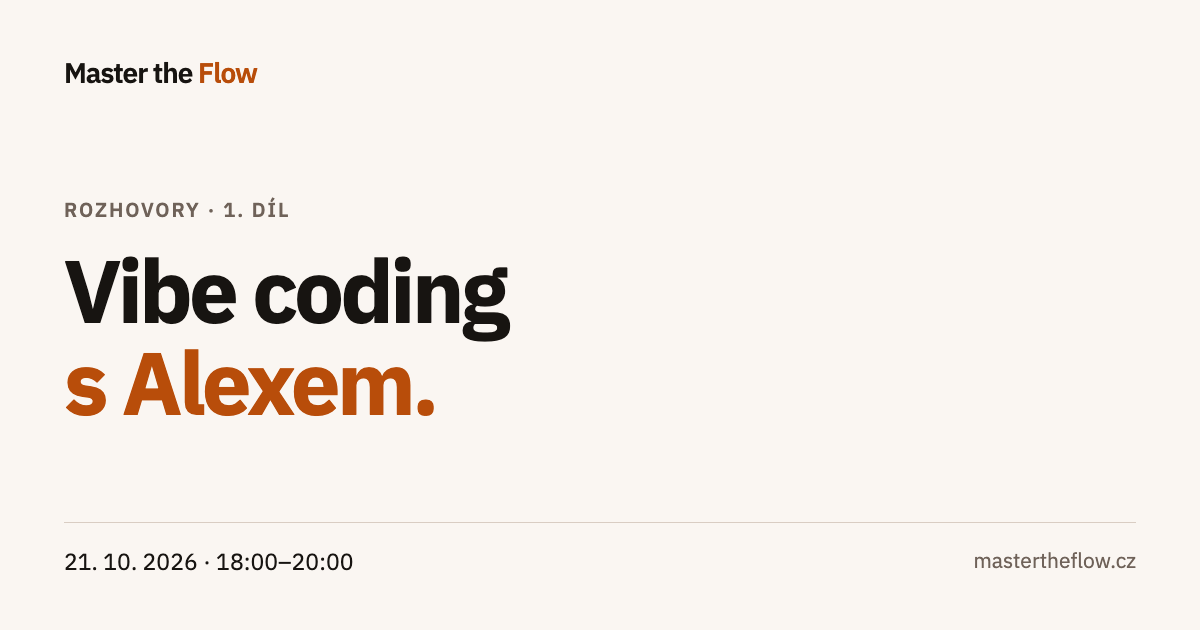
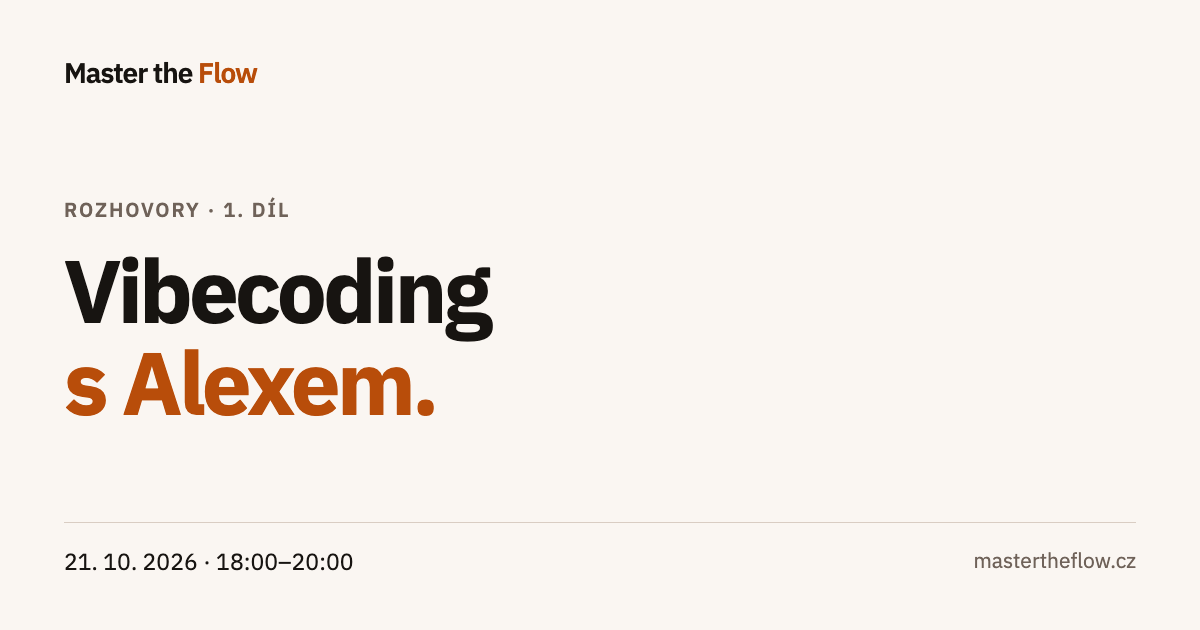
Update Alex interview copy from guest materials

Changed region(s): [[0.185, 0.3921, 0.4317, 0.5429]]

diff --git a/tests/e2e-vibe-coding-live.js b/tests/e2e-vibe-coding-live.js
@@ -29,7 +29,7 @@ function check(name, condition, detail = '') {
   const response = await page.goto(`${BASE}${episodePath}`, { waitUntil: 'networkidle' });
   check('Stránka vrací úspěšnou odpověď', response && response.ok(), String(response && response.status()));
   check('Stránka je veřejná bez přístupové brány', await page.locator('#gate').count() === 0);
-  check('Titulek pojmenovává díl s Alexem', (await page.locator('h1').innerText()).replace(/\s+/g, ' ') === 'Vibe coding s Alexem.');
+  check('Titulek pojmenovává díl s Alexem', (await page.locator('h1').innerText()).replace(/\s+/g, ' ') === 'Vibecoding s Alexem.');
   check('Sdílení používá kanonickou adresu nového dílu', await page.locator('link[rel="canonical"]').getAttribute('href') === `https://mastertheflow.cz${episodePath}`
     && await page.locator('meta[property="og:url"]').getAttribute('content') === `https://mastertheflow.cz${episodePath}`);
 
@@ -49,7 +49,7 @@ function check(name, condition, detail = '') {
   const publicCopy = `${pageMarkup} ${JSON.stringify(portalEvent)}`;
   const naming = {
     type: portalEvent?.type === 'ROZHOVOR',
-    title: portalEvent?.title === 'Vibe coding s Alexem | Rozhovory Master the Flow #1',
+    title: portalEvent?.title === 'Vibecoding s Alexem | Rozhovory Master the Flow #1',
     pageTitle: await page.title() === portalEvent?.title,
     eyebrow: await page.locator('.eyebrow').textContent() === 'Rozhovory Master the Flow · 1. díl',
     guest: await page.locator('#guest-title').textContent() === 'Alex Trejtnar',
@@ -70,7 +70,7 @@ function check(name, condition, detail = '') {
   check('Závazné údaje jsou konzistentní', Object.values(facts).every(Boolean), JSON.stringify(facts));
   check('Živá účast nabízí vlastní otázky bez povinné přípravy', /Přijďte s vlastní otázkou/.test(mainText)
     && /Na otázky bude prostor i během vysílání/.test(mainText)
-    && /Nemusíte nic instalovat ani mít připravený projekt/.test(mainText));
+    && /Bez instalace a připraveného projektu/.test(mainText));
   const recordingPlacement = await page.locator('.registration-actions').evaluate(element => {
     const button = element.querySelector('[data-registration-link]');
     const note = element.querySelector('.registration-note');
@@ -80,18 +80,18 @@ function check(name, condition, detail = '') {
   check('Záznam je zachovaný jako doplňková informace pod registračním tlačítkem', recordingPlacement);
   const startingPoint = {
     lovable: /Lovable/.test(mainText),
-    codingAgent: /coding agentem/i.test(mainText),
-    desiredOutput: /výsledek pořád není ono/i.test(mainText),
+    codingAgent: /coding agenta/i.test(mainText),
+    desiredOutput: /výsledek není ono/i.test(mainText),
   };
   check('Stránka vychází ze zkušenosti s coding nástroji', Object.values(startingPoint).every(Boolean), JSON.stringify(startingPoint));
-  check('Nosná otázka není redukovaná na lepší prompt', /co si připravit, než začnete zadávat/i.test(mainText)
-    && /Jak si ujasnit, co vlastně stavět/i.test(mainText));
-  check('Alexův setup není vydáván za povinnost', /co z Alexova systému převzít a co zatím vynechat/i.test(mainText));
-  check('Alexova odbornost není postavená na shazování Daniela', /jeho systém práce/i.test(mainText)
-    && /digitálu přes dvacet let/i.test(mainText)
-    && /ARIBENA/i.test(mainText)
+  check('Nosná otázka odpovídá Alexovu tématu přemýšlení', /Vibecoding vás učí každý\. Přemýšlet málokdo\./.test(mainText)
+    && /Jak uvidět problém dřív, než začnete zadávat/.test(mainText)
+    && /Jak výsledek ověřit a používat v praxi/.test(mainText));
+  check('Alexův setup není vydáván za povinnost', /Co si vzít z Alexova systému práce s agentem/.test(mainText));
+  check('Alexova odbornost není postavená na shazování Daniela', /20 let digitalizuje firmy/i.test(mainText)
+    && /Učí jejich týmy, jak o AI přemýšlet/i.test(mainText)
     && !/Mám to stejně|Nejsem vývojář|dál než (?:já|ten můj)|Co dělá jinak než já|co mi při stavění aplikací nefunguje|méně pokročil|o (?:několik|pár) úrovní přede mnou|teprve začínám|Daniel[^.]{0,80}(?:bastlí|nezvládá|trvá déle)/i.test(publicCopy));
-  check('Ukázky jsou podmíněné užitečností pro odpověď', /Kde to pomůže, Alex ukáže svůj postup na obrazovce/i.test(mainText));
+  check('Ukázky jsou podmíněné užitečností pro odpověď', /Alex podle potřeby nasdílí obrazovku/i.test(mainText));
   check('Stránka neslibuje pevný program ani polovinu vysílání', /O čem se budeme bavit/i.test(mainText)
     && !/polovinu vysílání|připravené checkpointy|šest okruhů/i.test(mainText));
   check('Stránka neslibuje konkrétní aplikaci dema', !/postavíme (?:aplikaci|appku)|vyrobíme (?:aplikaci|appku)/i.test(mainText));
@@ -134,17 +134,20 @@ function check(name, condition, detail = '') {
     && portraitBox
     && Math.abs(portraitBox.width - portraitBox.height) < 1,
   JSON.stringify(portraitBox));
-  check('Alexův profil stojí na ověřitelných zdrojích', /Alex Trejtnar/.test(mainText)
-    && /digitálu přes dvacet let/i.test(mainText)
-    && /ARIBENA/.test(mainText)
+  // Trvalý obsahový kontrakt: medailonek dodaný Alexem ve WhatsAppu 12. 10. 2026.
+  const guestBio = '20 let digitalizuje firmy: vývoj, marketing, procesy, obchod, automatizace. Dnes hlavně s AI. S klienty spolupracuje dlouhodobě. Vytváří s nimi nástroje, systémy a aplikace, které šetří čas, náklady a pomáhají pracovat s AI bezpečně. Učí jejich týmy, jak o AI přemýšlet a jak s ní pracovat.';
+  check('Alexův medailonek odpovídá jeho dodanému textu', await page.locator('.guest-copy > p').innerText() === guestBio
     && await page.locator('.guest-links a').count() === 3);
 
   const questionsText = await page.locator('.question-list').innerText();
-  check('Stránka uvádí témata místo harmonogramu', /co vlastně stavět/i.test(questionsText)
-    && /Co nastavit v projektu/i.test(questionsText)
-    && /Alexova systému.*vynechat/i.test(questionsText)
+  check('Stránka uvádí témata místo harmonogramu', /uvidět problém/i.test(questionsText)
+    && /Alexova systému práce s agentem/i.test(questionsText)
+    && /ověřit a používat/i.test(questionsText)
     && !/18:\d{2}/.test(questionsText));
   check('Stránka neopakuje samostatnou sekci o formátu', await page.locator('.format').count() === 0);
+  check('Minimalistický rozsah nepřidává propagaci kurzu', await page.locator('main > section').count() === 4
+    && await page.locator('.question-list li').count() === 3
+    && !/leden 2027|do 15 lidí|Novum Organon/.test(mainText));
 
   const themeBefore = await page.locator('html').getAttribute('data-theme');
   await page.locator('#theme-toggle').click();

diff --git a/rozhovory/1-vibe-coding-s-alexem/index.html b/rozhovory/1-vibe-coding-s-alexem/index.html
@@ -4,8 +4,8 @@
   <meta charset="UTF-8">
   <meta name="viewport" content="width=device-width, initial-scale=1.0, viewport-fit=cover">
   <meta name="theme-color" content="#faf6f2">
-  <meta name="description" content="Co si připravit, než začnete stavět s AI? Živý rozhovor Daniela Gamrota s Alexem Trejtnarem. 21. října 2026 od 18:00, online a zdarma.">
-  <title>Vibe coding s Alexem | Rozhovory Master the Flow #1</title>
+  <meta name="description" content="Vibecoding vás učí každý. Přemýšlet málokdo. Živý rozhovor Daniela Gamrota s Alexem Trejtnarem. 21. října 2026 od 18:00, online a zdarma.">
+  <title>Vibecoding s Alexem | Rozhovory Master the Flow #1</title>
   <link rel="icon" type="image/svg+xml" href="/favicon.svg">
   <link rel="apple-touch-icon" href="/apple-touch-icon.png">
   <link rel="preload" href="/fonts/IBMPlexSans-Regular.woff2" as="font" type="font/woff2" crossorigin>
@@ -16,19 +16,19 @@
   <meta property="og:type" content="website">
   <meta property="og:site_name" content="Master the Flow">
   <meta property="og:locale" content="cs_CZ">
-  <meta property="og:title" content="Vibe coding s Alexem | Rozhovory Master the Flow #1">
+  <meta property="og:title" content="Vibecoding s Alexem | Rozhovory Master the Flow #1">
   <meta property="og:description" content="ROZHOVORY · 1. DÍL · 21. 10. 2026 · 18:00–20:00 · Master the Flow">
   <meta property="og:url" content="https://mastertheflow.cz/rozhovory/1-vibe-coding-s-alexem/">
-  <meta property="og:image" content="https://mastertheflow.cz/event-cards/evt-2026-10-21-vibe-coding-nezacina-promptem.png?v=14d22010222e">
+  <meta property="og:image" content="https://mastertheflow.cz/event-cards/evt-2026-10-21-vibe-coding-nezacina-promptem.png?v=4ec5b4eae546">
   <meta property="og:image:type" content="image/png">
   <meta property="og:image:width" content="1200">
   <meta property="og:image:height" content="630">
-  <meta property="og:image:alt" content="Vibe coding s Alexem | Rozhovory Master the Flow #1 · 21. 10. 2026">
+  <meta property="og:image:alt" content="Vibecoding s Alexem | Rozhovory Master the Flow #1 · 21. 10. 2026">
   <meta name="twitter:card" content="summary_large_image">
-  <meta name="twitter:title" content="Vibe coding s Alexem | Rozhovory Master the Flow #1">
+  <meta name="twitter:title" content="Vibecoding s Alexem | Rozhovory Master the Flow #1">
   <meta name="twitter:description" content="ROZHOVORY · 1. DÍL · 21. 10. 2026 · 18:00–20:00 · Master the Flow">
-  <meta name="twitter:image" content="https://mastertheflow.cz/event-cards/evt-2026-10-21-vibe-coding-nezacina-promptem.png?v=14d22010222e">
-  <meta name="twitter:image:alt" content="Vibe coding s Alexem | Rozhovory Master the Flow #1 · 21. 10. 2026">
+  <meta name="twitter:image" content="https://mastertheflow.cz/event-cards/evt-2026-10-21-vibe-coding-nezacina-promptem.png?v=4ec5b4eae546">
+  <meta name="twitter:image:alt" content="Vibecoding s Alexem | Rozhovory Master the Flow #1 · 21. 10. 2026">
   <link rel="canonical" href="https://mastertheflow.cz/rozhovory/1-vibe-coding-s-alexem/">
   <!-- event-preview:end -->
 </head>
@@ -49,9 +49,9 @@
       <div class="hero-grid">
         <div class="hero-copy">
           <p class="eyebrow">Rozhovory Master the Flow · 1. díl</p>
-          <h1 id="event-title">Vibe coding <span>s Alexem.</span></h1>
+          <h1 id="event-title">Vibecoding <span>s Alexem.</span></h1>
           <p class="hero-host">Živý rozhovor s Alexem Trejtnarem. Moderuje Daniel Gamrot.</p>
-          <p class="hero-lede">Stavíte v Lovable, Codexu nebo s jiným coding agentem, ale výsledek pořád není ono? Podíváme se, co si připravit, než začnete zadávat. Přijďte s vlastní otázkou.</p>
+          <p class="hero-lede">Vibecoding vás učí každý. Přemýšlet málokdo. Zkoušíte Lovable nebo coding agenta, ale výsledek není ono? Přijďte s vlastní otázkou.</p>
         </div>
       </div>
 
@@ -85,11 +85,11 @@
         <h2 id="question-title">O čem se budeme bavit</h2>
         <div class="question-content">
           <ul class="question-list">
-            <li>Jak si ujasnit, co vlastně stavět.</li>
-            <li>Co nastavit v projektu pro práci s agentem.</li>
-            <li>Co z Alexova systému převzít a co zatím vynechat.</li>
+            <li>Jak uvidět problém dřív, než začnete zadávat.</li>
+            <li>Co si vzít z Alexova systému práce s agentem.</li>
+            <li>Jak výsledek ověřit a používat v praxi.</li>
           </ul>
-          <p class="question-note">Kde to pomůže, Alex ukáže svůj postup na obrazovce. Nemusíte nic instalovat ani mít připravený projekt.</p>
+          <p class="question-note">Alex podle potřeby nasdílí obrazovku. Bez instalace a připraveného projektu.</p>
         </div>
       </div>
     </section>
@@ -101,7 +101,7 @@
         </figure>
         <div class="guest-copy">
           <h2 id="guest-title">Alex Trejtnar</h2>
-          <p>V digitálu přes dvacet let. S AI postavil iOS aplikaci ARIBENA a zveřejňuje vlastní nástroje pro coding agenty. V rozhovoru se podíváme na jeho systém práce.</p>
+          <p>20 let digitalizuje firmy: vývoj, marketing, procesy, obchod, automatizace. Dnes hlavně s AI. S klienty spolupracuje dlouhodobě. Vytváří s nimi nástroje, systémy a aplikace, které šetří čas, náklady a pomáhají pracovat s AI bezpečně. Učí jejich týmy, jak o AI přemýšlet a jak s ní pracovat.</p>
           <nav class="guest-links" aria-label="Veřejné profily Alexe Trejtnara">
             <a href="https://cz.linkedin.com/in/altre" target="_blank" rel="noopener noreferrer">LinkedIn <span aria-hidden="true">↗</span></a>
             <a href="https://github.com/altre-cz" target="_blank" rel="noopener noreferrer">GitHub <span aria-hidden="true">↗</span></a>

diff --git a/tools/event-card-model.js b/tools/event-card-model.js
@@ -2,7 +2,7 @@
 const ORIGIN = 'https://mastertheflow.cz';
 const ID_RE = /^evt-\d{4}-\d{2}-\d{2}-[a-z0-9-]+$/;
 const DESIGNS = {
-  'evt-2026-10-21-vibe-coding-nezacina-promptem': { lines: ['Vibe coding', 's Alexem.'], label: 'ROZHOVORY · 1. DÍL' },
+  'evt-2026-10-21-vibe-coding-nezacina-promptem': { lines: ['Vibecoding', 's Alexem.'], label: 'ROZHOVORY · 1. DÍL' },
   'evt-2026-09-22-ai-ktera-mi-fakt-funguje': { lines: ['AI, která mi', 'fakt funguje.'] },
   'evt-2026-08-29-sraz': { lines: ['Sraz v Praze.'] },
   'evt-2026-08-14-sraz-olomouc': { lines: ['Sraz v Olomouci.'] },

diff --git a/TASKS.md b/TASKS.md
@@ -24,6 +24,37 @@ _Žádné položky._
 
 ## Blocked
 
+### TASK-009 — Text rozhovoru podle Alexových podkladů
+
+- Started: 2026-10-12
+- Owner: Codex
+- Výsledek: minimalistická stránka s Alexovým medailonkem, jeho tématem přemýšlení o AI a názvem „Vibecoding s Alexem“.
+- Scope: texty, metadata a karta tohoto rozhovoru; neměnit layout, registraci, termín, skrytí v portálu ani jiné akce. Forms a Calendar mimo scope.
+- Release oprávnění: 2026-10-12 — Daniel výslovně schválil commit, push a produkční nasazení této revize.
+- Zdroj: Alexovy dvě screenshotové přílohy a teaser/index.html z ZIPu, dodané ve WhatsAppu 2026-10-12. Importován pouze požadovaný veřejný text, nikoli kód teaseru, formulář nebo propagace kurzu.
+- Režim: coordinated; mapper nedostupný (limit vláken), read-only self-map dokončený. ExecPlan nepoužit, krátká textová úprava.
+- Blocked: 2026-10-12 — implementace dokončená; nezávislou acceptance blokuje limit agentních vláken.
+- Last safe state: lokální změny ověřené cílenými E2E a vizuálně; bez commitu, pushnutí a deploye.
+- Resume from: čerstvý nezávislý read-only review tohoto diffu po uvolnění kapacity. Autorizovaný release je samostatný krok a chybějící review nenahrazuje.
+
+#### Verification
+
+- [x] Medailonek a slogan odpovídají dodaným podkladům; název je konzistentní s kartou.
+- [x] Počet sekcí, registrace, termín, portrét, skrytí a ostatní akce zachované.
+- [x] Cílené testy, mobil a desktop ověřené po změně.
+- [ ] Čerstvá nezávislá acceptance dokončená.
+
+#### Evidence
+
+- Baseline `ffc46ce`; čerstvý fetch 0/0. Jediná cizí změna tools/build_glossary.py (166465a57fed8c01a232f1c0bc2a9b7f1351e90c5d4b5f5fa230f2826a5ec289) je mimo scope.
+- Cílené E2E: e2e-vibe-coding-live.js 37/37; e2e-event-cards.js 72/72 — prošlo lokálně. Syntaxe obou změněných JS a diff check — prošlo. Plná sada nebyla v této textové revizi spuštěna.
+- Vizuální kontrola: desktop a 390px mobil v reálném prohlížeči, nová PNG karta — prošlo. Čtyři stejné sekce, hlavní text 183 → 189 slov.
+- Všechny body HTML tagy a atributy jsou identické s baseline. CSS, JS, portrét a cizí změna mají původní hashe. U akce změněn pouze title/description; všechny ostatní akce a jejich karty beze změny.
+- Verifier: NOT TESTED — spawn `/root/alex_copy_acceptance` odmítl limit vláken. Oddělený druhý průchod textu, zdrojů a diffu proveden; celkový verdikt PARTIALLY VERIFIED, nikoli nezávislá acceptance.
+- Post-review snapshot: HTML f56aa96…, data e350f86…, model 872b760…, test 4ead669…, PNG 4ec5b4e…; implementační snapshot nezměněn.
+- Surové přílohy zůstaly jen v dočasné složce /private/tmp/alex-landing-sources-HKUqj9. WhatsApp pouze čtený; žádná zpráva odeslána, žádný kód ze ZIPu spuštěný nebo importovaný.
+- Predeploy rapid security proti ffc46ce: pouze veřejný text a PNG, HTML tagy/atributy v body, odkazy, registrační formulář, ochrany a runtime kód beze změny; žádná potvrzená nová bezpečnostní regrese. Chráněný cizí slovníček se nenasazuje. Celkový limit nezávislé acceptance trvá.
+
 ### TASK-008 — Světlé náhledové karty všech akcí
 
 - Started: 2026-10-12
